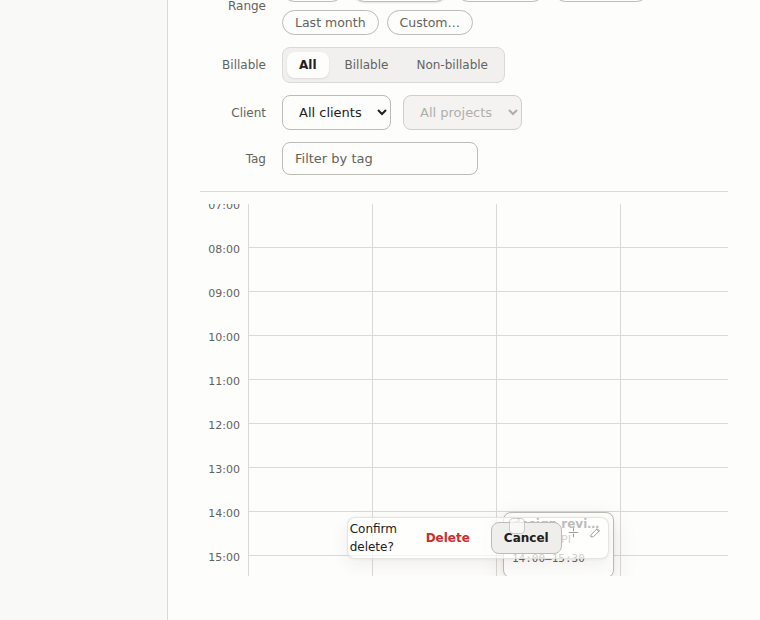
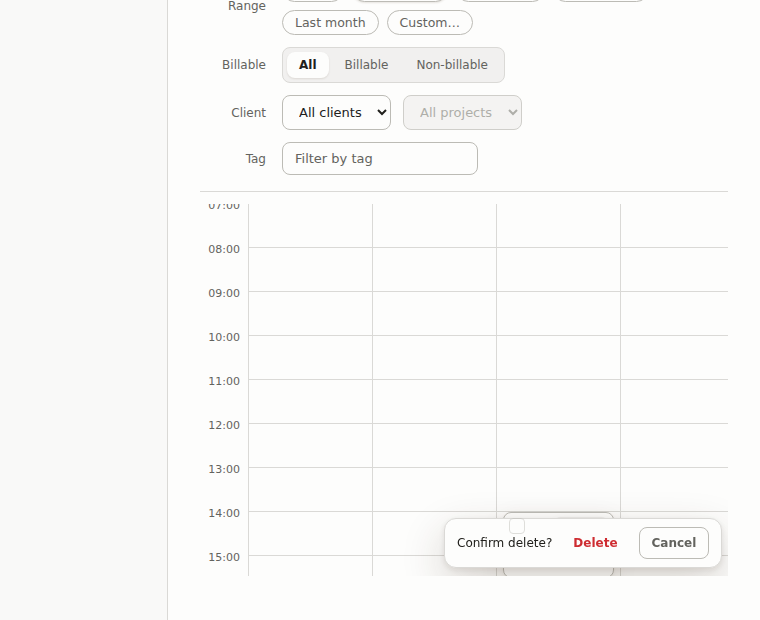
Calendar-armed inline gates are layers, not column content (#146)
The split picker and the two-step delete confirm are armed from a calendar
event's hover-ops chip, so they were laid out IN FLOW inside a 124px day
column — and carried no surface of their own. The split picker measured 348px
against that column: 264px past it and, armed in the leftmost column, 16px off
the left edge of the WINDOW, over a transparent background with a 0px radius
and no shadow. Half its controls (the "Split at" label, the instant field) were
clipped away by the calendar's own scroller, and what remained read as loose
text floating over the entries rather than a layer above them.

Depth and containment are the same fix, because a positioned layer is no longer
bound by the column it sprang from (design.html D09). A gate armed from a
calendar event now takes the `.cal-gate` chrome — the elevation ladder's popover
rung over a paper fill with a neutral edge and radius, one rung above the raised
block it covers — and `placeInlineGate` anchors it at that block and clamps its
box inside the calendar's visible region (the `.cstrip` scroller's box less its
scrollbar gutters, intersected with the window). Gates armed anywhere else — the
unified form's footer, the Clients rows, the Reports builder, the merge bar's
gap confirm — are in-flow content of a surface that already fits them, so they
take neither the chrome nor the clamp.

Guarded by JUDGE INLINE_GATE_CONTAINMENT over a new edgeColumnState fixture that
[…]

Changed region(s): [[0.5447, 0.8274, 0.9684, 0.95], [0.4539, 0.8274, 0.5447, 0.9194]]

diff --git a/packages/gui/renderer/app.js b/packages/gui/renderer/app.js
@@ -1201,6 +1201,63 @@ function openMergeConflict(entries, onDone = () => {}, allowGap = false) {
   return dialog;
 }
 
+// Breathing room, in px, between a calendar-armed inline gate and the calendar viewport's own
+// edges — the gate is clamped to sit this far inside, so it never grazes the scroller's rim.
+const CAL_GATE_INSET = 6;
+
+// design.html D09 (issue #146): position a transient inline gate — the two-step delete confirm
+// (confirmInline) or the split picker (openSplitForm) — that was armed from a CALENDAR EVENT.
+// Both gates are ~2–3× wider than the 124px day column their button lives in, so laid out IN FLOW
+// they ran straight out of the column and, in the leftmost column, 16px off the left edge of the
+// WINDOW; and neither carried a surface of its own, so a region raised above the calendar read as
+// loose text floating over it. Both halves are the same mistake — the gate is a LAYER over the
+// calendar, not content of a day column — so both are fixed the same way: `.cal-gate` lifts it
+// onto the elevation ladder's popover rung (the CSS) and this clamps its box inside the calendar
+// viewport (the geometry). Anchored at the event (left/top 0 of the block that armed it) and
+// nudged by the smallest offset that pulls it wholly inside `.cstrip`'s visible box, so a gate
+// armed in the first or last column stays whole and on screen.
+//
+// Gates armed OUTSIDE the calendar — the unified form's footer, the Clients rows, the Reports
+// builder — are already in-flow content of a full-width surface that fits them, so they get
+// neither the layer chrome nor the clamp: no `.cstrip` ancestor, nothing to do.
+//
+// Idempotent: it resets its own offsets before measuring, so it can be re-run when the gate's
+// content grows (the split picker's refusal message wraps in a second row, §12 R21).
+function placeInlineGate(wrap) {
+  const strip = wrap.closest('.cstrip');
+  if (!strip) return;
+  wrap.classList.add('cal-gate');
+  wrap.style.left = '0px';
+  wrap.style.top = '0px';
+  // The region the gate must land in: the scroller's VISIBLE box — its border box less the
+  // scrollbar gutters (clientWidth/Height) — INTERSECTED with the window, since the calendar's
+  // own viewport can itself hang below the fold. Only the intersection is both inside the
+  // calendar (the box the gate belongs to) and actually on screen.
+  const box = strip.getBoundingClientRect();
+  const view = {
+    left: Math.max(box.left, 0),
+    top: Math.max(box.top, 0),
+    right: Math.min(box.left + strip.clientWidth, document.documentElement.clientWidth),
+    bottom: Math.min(box.top + strip.clientHeight, document.documentElement.clientHeight),
+  };
+  const r = wrap.getBoundingClientRect();
+  // Pull the overflowing edge in first, then re-check the opposite edge — so a gate wider than the
+  // viewport lands flush against its start edge rather than being pushed off the other side.
+  let dx = Math.min(0, view.right - CAL_GATE_INSET - r.right);
+  if (r.left + dx < view.left + CAL_GATE_INSET) dx = view.left + CAL_GATE_INSET - r.left;
+  let dy = Math.min(0, view.bottom - CAL_GATE_INSET - r.bottom);
+  if (r.top + dy < view.top + CAL_GATE_INSET) dy = view.top + CAL_GATE_INSET - r.top;
+  wrap.style.left = `${Math.round(dx)}px`;
+  wrap.style.top = `${Math.round(dy)}px`;
+}
+
+// Swap an armed gate in for the control that armed it, then place it (above). The single mount
+// point for both gates, so neither can acquire the containment fix without the other.
+function mountInlineGate(btn, wrap) {
+  btn.replaceWith(wrap);
+  placeInlineGate(wrap);
+}
+
 // §12 R13: the generic in-window confirm gate for a destructive action. A destructive
 // control (today only Delete; archive-when-referenced lands with the Clients view, R10)
 // must never act on a single stray click — the first click swaps the button into an
@@ -1228,7 +1285,7 @@ function confirmInline(btn, { kind, question, confirmLabel, onConfirm }) {
     `<span class="confirm-q">${escapeHtml(question)}</span>` +
     `<button class="small danger" type="button" data-act="confirm-${kind}">${escapeHtml(confirmLabel)}</button>` +
     `<button class="small ghost confirm-cancel" type="button" data-act="cancel-${kind}">Cancel</button>`;
-  btn.replaceWith(wrap);
+  mountInlineGate(btn, wrap);
   if (hadFocus) wrap.querySelector(`[data-act="cancel-${kind}"]`).focus();
   // Re-wire the freshly-created controls (they were not present at row build time). Only
   // the explicit confirm runs the destructive callback — the first (arming) click did not.
@@ -1322,7 +1379,7 @@ function openSplitForm(btn, e) {
     // surfaced here at the point of action; the picker stays open with the message announced.
     `<span class="split-warning form-error" role="status" aria-live="polite" hidden></span>`;
   const hadFocus = document.activeElement === btn;
-  btn.replaceWith(wrap);
+  mountInlineGate(btn, wrap);
   wrap.querySelector('.split-input').value = localInputValue(midpoint);
   const warn = wrap.querySelector('.split-warning');
   // A04 / issue 140, as in confirmInline: the button that opened the picker is gone, so focus
@@ -1347,10 +1404,16 @@ function openSplitForm(btn, e) {
       applyAck(ack);
     } catch (err) {
       showFormError(warn, err);
+      // The refusal wraps onto a second row inside the gate, so a gate already sitting against the
+      // calendar's bottom or right edge has just grown past it — re-clamp (issue #146).
+      placeInlineGate(wrap);
     }
   });
   // The message persists until the next input on the split field (add-form pattern).
-  wrap.querySelector('.split-input').addEventListener('input', () => clearFormError(warn));
+  wrap.querySelector('.split-input').addEventListener('input', () => {
+    clearFormError(warn);
+    placeInlineGate(wrap);
+  });
   wrap.querySelector('.split-cancel').addEventListener('click', (ev) => {
     ev.stopPropagation();
     const inPicker = wrap.contains(document.activeElement);

diff --git a/packages/gui/renderer/styles.css b/packages/gui/renderer/styles.css
@@ -2311,6 +2311,34 @@ body.popover { background: var(--canvas); margin: 0; }
    wider than a day column and is not the entry's own content. Clipping it would hide the Cancel the
    gate exists to offer, so the block opens up for exactly as long as the gate is up. */
 .dt .ev:has(.confirm, .split-at) { overflow: visible; }
+/* design.html D09 (issue 146, unhashed — the D01 scan over this file reads a hashed three-digit
+   number as a colour literal): a transient gate armed FROM a calendar event is a LAYER OVER the
+   calendar, not content of the 124px day column its button sat in. Laid out in flow it was an
+   inline run 2–3× the column's width with no surface at all: the split picker measured 348px
+   inside a 124px column — 264px past its own column and 16px off the left edge of the WINDOW —
+   with a transparent background, a 0px radius and no shadow, so a raised region read as loose
+   text floating over the entries. Depth and containment are the same fix, because a positioned
+   layer is no longer bound by the column it sprang from: the gate takes the ladder's POPOVER rung
+   (one above the raised block it covers), the paper fill and neutral edge every layer carries, and
+   is positioned rather than laid out — app.js's placeInlineGate anchors it at the block and clamps
+   its box inside the calendar viewport. `width: max-content` keeps the controls on one row; the
+   max-width lets the split picker's refusal message wrap to a second row (the .split-warning
+   flex-basis above) instead of stretching the layer off screen. Gates armed outside the calendar
+   are in-flow content of a surface that already fits them, so they never take `.cal-gate`. */
+.dt .ev .cal-gate {
+  position: absolute;
+  left: 0;
+  top: 0;
+  z-index: 1;
+  flex-wrap: wrap;
+  width: max-content;
+  max-width: 420px;
+  padding: 8px 12px;
+  border: 1px solid var(--rule);
+  border-radius: var(--r2);
+  background: var(--paper);
+  box-shadow: var(--sh-pop);
+}
 /* Hover is a LIFT, not a tint (D09): the block climbs the ladder chip → raise and comes forward.
    It keeps its paper fill and neutral edge — the accent stays spent on the running state.
    `:focus-within` is the keyboard's hover (issue 140): the block is one tab stop and its controls
@@ -2344,6 +2372,10 @@ body.popover { background: var(--canvas); margin: 0; }
 .dt .ev.editing,
 .dt .ev.on:hover,
 .dt .ev.editing:hover { box-shadow: var(--sh-pop); z-index: 3; }
+/* The block HOSTING a gate outranks every other block in the track, so the layer it carries is
+   never drawn under a lifted (hovered / chosen) neighbour. Deliberately more specific than the
+   `.on:hover` pair above and placed after it, so a selected block's own z-index cannot win. */
+.dt .ev.entry:has(.confirm, .split-at) { z-index: 5; }
 .ev .bd { display: block; font-size: 12px; font-weight: 590; line-height: 1.3; white-space: nowrap; overflow: hidden; text-overflow: ellipsis; }
 .ev .bd .run-dot { margin-right: 4px; }
 .ev .bc { display: block; font-size: 11px; color: var(--muted); line-height: 1.3; white-space: nowrap; overflow: hidden; text-overflow: ellipsis; }

diff --git a/acceptance/criteria/judge-rubric.md b/acceptance/criteria/judge-rubric.md
@@ -48,6 +48,7 @@ The harness writes `acceptance/evidence/judge-report.json` and the screenshots i
 | `CONFIRM_DESTRUCTIVE` | **Destructive actions confirm before acting (§17 R11).** The §17 framing of the gate: a **single Delete click must not destroy the entry** — it surfaces the in-window confirm (`.confirm` with `confirm-delete` + `cancel-delete`) and the entry is **still present** after the arming click (`window.stint.remove` not called, `__REMOVE_CALLS__` empty). **Only the explicit confirm** removes it, after which the entry is **gone from the list** (the remove mock drops it from the snapshot, so the post-confirm reload reflects the real deletion). Machine-scored facts: entry present pre-confirm with zero remove calls, then absent post-confirm with exactly one `remove({ id: 20 })`. (Archive-when-referenced reuses the same gate — see `CONFIRM_ARCHIVE`.) | §17 R11, §12 R13 | `main-confirm.png` |
 | `CONFIRM_DELETE` | **Destructive actions confirm in the window (§12 R13 — `core`, loss-protection: destructive-action confirmation per §03).** A **single stray Delete click must not destroy an entry**: clicking Delete surfaces the in-window confirm gate (the generic `.confirm` affordance with a `confirm-delete` + a `cancel-delete` control) and the instrumented `window.stint.remove` is **not** called by that first click (`__REMOVE_CALLS__` stays empty). **Only the explicit confirm** removes the entry, and it fires `remove` **exactly once**, carrying the entry id. (The same gate is the GUI counterpart to `tt rm`'s confirm / `--force`; archive-when-referenced reuses it — see `CONFIRM_ARCHIVE`.) Machine-scored facts: the confirm gate appears, `remove` calls after the arming click = 0, and exactly one `remove({ id })` fires on confirm. | §12 R13 | `main-confirm-delete.png` |
 | `SPLIT_AFFORDANCE` | A **closed** entry exposes a discoverable Split control that opens an inline instant picker (defaulting to the span's midpoint) and calls the split capability over the `split` IPC with a UTC instant inside the span; the **open/running** entry exposes no Split control (only a bounded span can be cut). The renderer adds no arithmetic — core enforces the strictly-in-span rule. | §06 R2, §12 | `main-split.png` |
+| `INLINE_GATE_CONTAINMENT` | **A transient gate armed from a calendar event is a LAYER OVER the calendar, not content of the 124px day column whose button armed it** (design.html D09, issue #146). Both gates the calendar arms — the split picker (`.split-at`) and the two-step delete confirm (`.confirm`) — shipped laid out **in flow inside that column** and **with no surface of their own**: the split picker measured **348px against a 124px column**, running 264px past the column and, armed in the **leftmost** one, **16px off the left edge of the window**, over a **transparent** background with a **0px radius and no shadow** — so a raised region read as loose text floating over the entries, and half its controls (the "Split at" label, the instant field) were clipped away entirely by the calendar's own scroller. Driven through the **real hover affordance** on the two **EDGE** columns (`edgeColumnState` pins entry 40 to the week's first day column and entry 41 to its last), never read off the stylesheet, so the check survives a restyle: whatever the gates are made of, each must **(a)** sit **wholly inside the calendar as the user can see it** — the `.cstrip` scroller's visible box (border box less scrollbar gutters) intersected with the window — and **(b)** resolve to a real surface **on the elevation ladder**: an **opaque** background that is the `--paper` token, a **non-zero radius**, and a **shadow**. Both edges are probed because a clamp that only pulls the left edge in still spills off the right, and the gates grow leftward from the ops chip so the two columns fail in opposite directions. The gate's width against its column is **reported, not gated** — a future redesign may legitimately shrink it; what must not return is a gate that escapes the calendar or carries no surface. Machine-scored facts: the split picker armed on the first column and the delete confirm armed on the last each report `inside=true` with zero escape left or right, and `opaque` + `paper` + `raised` + `rounded` all true. Fails if either gate crosses the calendar's visible edge, or paints no fill, radius or shadow. | design.html D09, §06 R1–R2, §12 R13, §12 R16 | `main-inline-gate.png` |
 | `OVERLAP_BANNER` | A write that creates an overlap surfaces a **non-blocking inline banner at the moment of the edit** — not only the durable per-row flag — worded as allowed-but-flagged ("This entry overlaps … — allowed, but flagged in reports."). The banner is `role=status` + `aria-live=polite` (announced, accessibility-tree visible) and auto-clears on the next refresh that carries no warning; the write still commits (overlap is warned, not blocked). It uses the `--flag` tokens, never the accent. | §06 R4, §12 | `main-overlap-banner.png` |
 | `WRITE_REJECTION_FEEDBACK` | A **refused core write is surfaced where it was attempted, never silently swallowed** (§12 R21). Driving the real renderer over a **strict-rejecting mock** (`rejectWrites` — edit/split/rename/toggle each reject with a StoreError-shaped message, the strict-`listEntries` precedent), each site **catches and displays**: the **form stays OPEN** and an **announced** (`role=status` + `aria-live`) inline `.form-error` region carries the reason. Four folded facts — (a) unified-editor **Save**: the `edit` IPC rejects, the editor stays open with the message in `.ef-warning`, and `window.__EDITED__` stays unset (the refused write recorded nothing); (b) **split confirm**: the `split` IPC rejects, the picker stays open with `.split-warning`; (c) **inline rename** (client): `renameClient` rejects, the rename form stays open with `.rename-warning`; (d) **Stop/toggle**: `toggle` rejects and the rejection is **VISIBLE on the Timer view** where the Stop was clicked — the announced `#timer-warning` region beside the card controls (the "Stop appears dead" surface, issue #61), with the Entries `#overlap-banner.error` mirroring the block. **What the user reads (issue 138):** every mock rejects in **Electron's real `ipcRenderer.invoke` shape** — its wrapper sentence plus the thrown class name around the reason, the string the packaged app produces — so each of the four regions is scored on its rendered text: the reason **exactly**, with no "Error invoking remote method", no "StoreError", and no `--flag` name (the app shipped all three at once). The error component uses the `--danger` block palette, distinct from the `--flag` overlap advisory. Fails if any site swallows the rejection (form closes / no message / not announced) or the write records despite the refusal. | §12 R21, §05 R11, §06 R2, §13 | `main-edit-reject.png` |
 | `ADD_REFUSAL_PALETTE` | **On the add form a refused write reads as a BLOCK and an allowed-but-flagged one reads as an ADVISORY — two palettes, one region, never inverted** (design.html D15, issue 139). The form's `#add-warning` carries BOTH message kinds, so colour (not location) is what tells them apart; the app shipped the inversion — a refused Save wore the `--flag` amber advisory chrome, so the colour said "saved with a caveat" while the sentence said "nothing was written". Driving the real renderer, three folded facts, each scored on **computed** colour (a palette is exactly what a screenshot-only check lets rot), with paint transitions suppressed so every probe reads the cascade and not a frozen mid-fade frame: (a) **refused Save** over the strict-rejecting mock (`rejectWrites` — the `add` IPC rejects like core refusing an inverted span, in Electron's real wrapped shape) leaves the form **open** with the **announced** (`role=status` + `aria-live`) `#add-warning` carrying the reason **alone** ('stop time must be after start time' — no invoke wrapper, no `StoreError`, no `--flag` name, issue 138), records **nothing** (`window.__ADDED__` stays null), and paints text/background/border as `--danger` / `--danger-weak` / `--danger`; (b) **the region's other state** — Cancel then reopen returns it to its `--flag` / `--flag-bg` / `--flag-line` base chrome with the `error` state class gone, so a refusal cannot outlive its message and dress the next advisory as a hard block; (c) **the advisory sibling** — the same form saving an **overlapping** backfill COMMITS (`__ADDED__` set) and raises its 'allowed, but flagged' banner in the `--flag` triple. Plus the split itself: the two token triples must **differ**, so a token edit collapsing danger onto flag cannot make (a)–(c) pass vacuously. Fails if a refusal reads flag, an advisory reads danger, the two states resolve alike, or the refused backfill records. | design.html D15, §12 R21, §06 R4 | `add-refusal-palette.png` |

diff --git a/acceptance/criteria/COVERAGE.md b/acceptance/criteria/COVERAGE.md
@@ -329,7 +329,9 @@ unified entry form's edit mode + footer two-step Delete), BDD `features/reachabl
 and `remove`→`tt rm` (`parity-matrix.json`). **R2 GUI split affordance** (a
 closed entry exposes a Split control; the open/running entry does not): JUDGE
 `SPLIT_AFFORDANCE` (`main-split.png`), parity `split`→`tt split`
-(`parity-matrix.json`). Split is thus proven on all three surfaces — BDD core+tt
+(`parity-matrix.json`); where that picker RENDERS is JUDGE
+`INLINE_GATE_CONTAINMENT` (`main-inline-gate.png`, detailed in the §12 R13 row).
+Split is thus proven on all three surfaces — BDD core+tt
 round-trip (split-then-merge restores the original span) and JUDGE for the
 renderer affordance. **R3 GUI merge** (multi-select closed entries → a Merge
 action; disagreeing client/project/billable raises a conflict prompt that picks
@@ -1651,6 +1653,20 @@ over the surface-neutral BDD `features/overlap_and_editing.feature` "Deleting an
 entry without confirmation is refused". No new IPC channel is added for the gate (`remove` /
 `archiveClient` / `archiveProject` already exist), so
 `parity-matrix.json` / `gui/test/parity.test.ts` are intentionally unchanged.
+WHERE the gate renders is proven too (issue #146, design.html D09): a gate armed
+from a CALENDAR event — the delete confirm or the §06 R2 split picker — is a
+LAYER over the calendar, not content of the ~124px day column its button sat in.
+Laid out in flow both escaped that column with no surface at all (the split
+picker measured 348px against a 124px column and ran 16px off the WINDOW's left
+edge, transparent, 0px radius, no shadow), so `placeInlineGate`
+(`gui/renderer/app.js`) promotes a calendar-armed gate to the popover-rung
+`.cal-gate` layer and clamps its box inside the calendar's visible region, while
+gates armed elsewhere (the unified form footer, the Clients rows, the Reports
+builder) stay in flow inside surfaces that already fit them. JUDGE
+`INLINE_GATE_CONTAINMENT` (`main-inline-gate.png`) arms both gates through the
+real hover affordance on the week's FIRST and LAST day columns — the only places
+the escape is visible — and scores each one inside the calendar's visible box
+with an opaque `--paper` fill, a radius and a shadow.
 The §12 R13 confirm gate is thus covered. **R14 keyboard/focus pass** (every
 control keyboard-reachable AND focus-visible; the window fully operable from the
 keyboard — light/dark, system type and accent-on-primary already shipped, the
